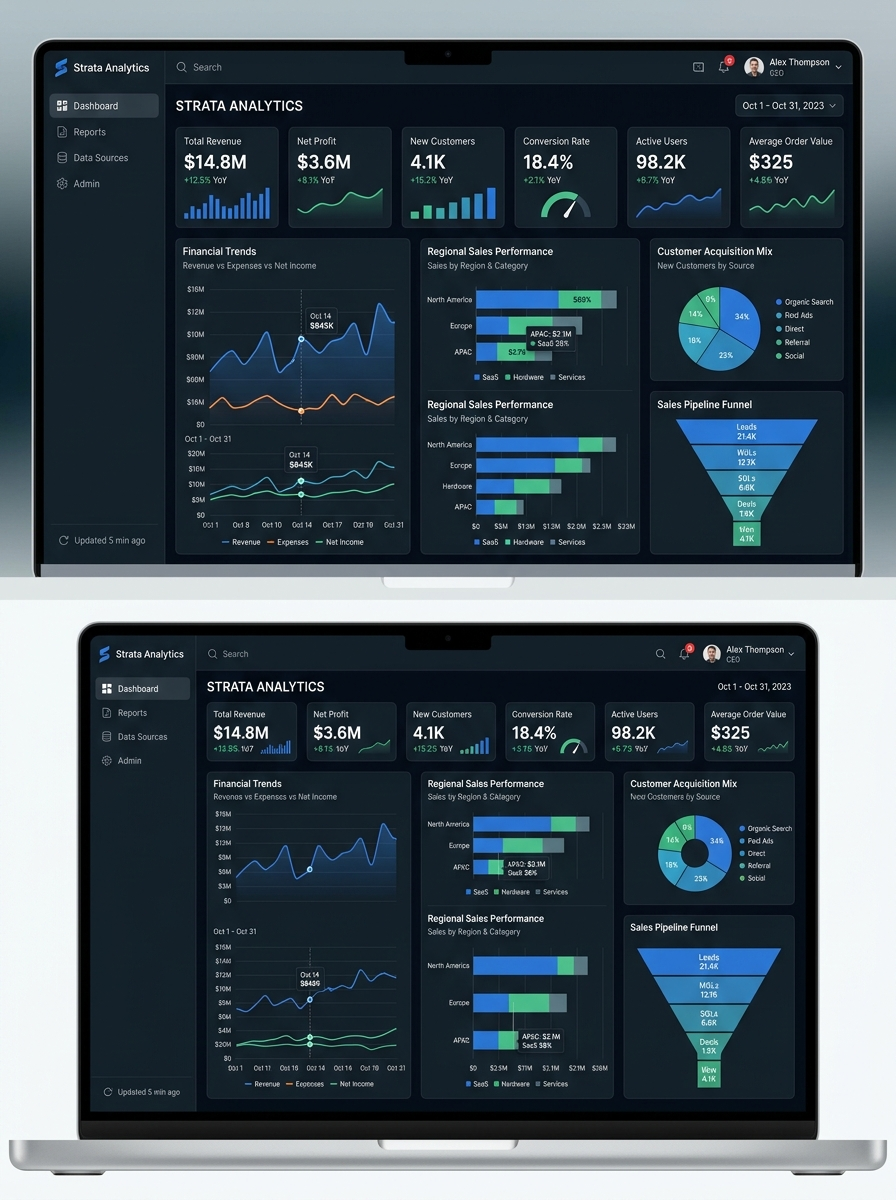
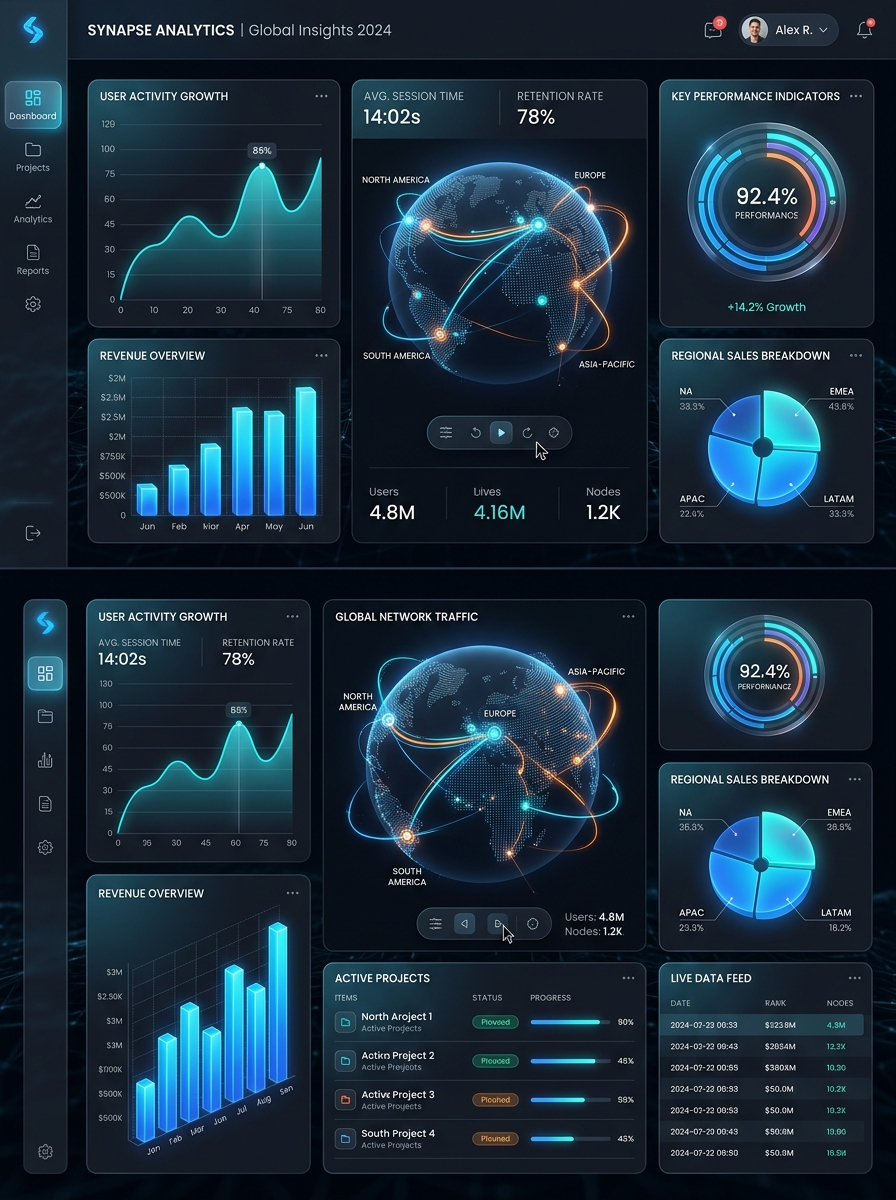
feat: implement animated Hero section with dynamic tech stack mockups

diff --git a/src/components/HeroMockups.jsx b/src/components/HeroMockups.jsx
@@ -1,0 +1,106 @@
+import React from 'react'
+
+export const SoftwareMockup = () => (
+  <div className="w-full h-full bg-slate-900 rounded-3xl overflow-hidden flex flex-col font-mono text-sm shadow-2xl border border-slate-700">
+    <div className="bg-slate-800 px-4 py-3 flex items-center gap-2 border-b border-slate-700">
+      <div className="flex gap-1.5"><div className="w-3 h-3 rounded-full bg-red-500"></div><div className="w-3 h-3 rounded-full bg-yellow-500"></div><div className="w-3 h-3 rounded-full bg-green-500"></div></div>
+      <div className="ml-4 text-slate-400 text-xs">app.tsx - KrGo Tech</div>
+    </div>
+    <div className="flex-1 flex overflow-hidden">
+      <div className="w-12 bg-slate-800/50 flex flex-col items-center py-4 gap-2 text-slate-500 border-r border-slate-700 select-none">
+         {[...Array(15)].map((_, i) => <div key={i}>{i+1}</div>)}
+      </div>
+      <div className="p-4 text-slate-300 overflow-hidden leading-relaxed text-xs sm:text-sm">
+        <div><span className="text-purple-400">import</span> React <span className="text-purple-400">from</span> <span className="text-green-400">'react'</span>;</div>
+        <br/>
+        <div><span className="text-blue-400">const</span> <span className="text-yellow-200">KrGoApp</span> = () =&gt; {'{'}</div>
+        <div className="ml-4"><span className="text-blue-400">const</span> analytics = <span className="text-yellow-200">useAnalytics</span>();</div>
+        <div className="ml-4"><span className="text-purple-400">return</span> (</div>
+        <div className="ml-8 text-cyan-400">&lt;div className="app-container"&gt;</div>
+        <div className="ml-12 text-slate-300">Building scalable software solutions...</div>
+        <div className="ml-8 text-cyan-400">&lt;/div&gt;</div>
+        <div className="ml-4">);</div>
+        <div>{'}'};</div>
+        <br/>
+        <div><span className="text-purple-400">export default</span> KrGoApp;</div>
+      </div>
+    </div>
+  </div>
+)
+
+export const AnalyticsMockup = () => (
+  <div className="w-full h-full bg-white dark:bg-slate-900 rounded-3xl overflow-hidden flex flex-col p-4 sm:p-6 shadow-2xl border border-gray-200 dark:border-slate-700">
+    <div className="flex justify-between items-center mb-6">
+      <div className="font-bold text-lg dark:text-white">Revenue Dashboard</div>
+      <div className="px-3 py-1 bg-blue-100 text-blue-600 rounded-full text-xs font-bold">+24.5%</div>
+    </div>
+    <div className="grid grid-cols-3 gap-2 sm:gap-4 mb-6">
+      {[124500, 8420, 98.2].map((val, i) => (
+        <div key={i} className="bg-slate-50 dark:bg-slate-800 p-3 sm:p-4 rounded-xl border border-gray-100 dark:border-slate-700 flex flex-col justify-center items-center text-center">
+          <div className="text-[10px] sm:text-xs text-slate-500 dark:text-slate-400 mb-1">Metric {i+1}</div>
+          <div className="text-sm sm:text-xl font-black dark:text-white">{val}</div>
+        </div>
+      ))}
+    </div>
+    <div className="flex-1 bg-slate-50 dark:bg-slate-800 rounded-xl border border-gray-100 dark:border-slate-700 p-4 flex items-end gap-1 sm:gap-2">
+       {[40, 70, 45, 90, 65, 100, 80, 55, 75, 60].map((h, i) => (
+         <div key={i} className="flex-1 bg-blue-500 rounded-t-sm transition-all duration-1000 shadow-sm" style={{ height: `${h}%` }}></div>
+       ))}
+    </div>
+  </div>
+)
+
+export const AIMockup = () => (
+  <div className="w-full h-full bg-slate-950 rounded-3xl overflow-hidden flex flex-col shadow-2xl border border-slate-800 relative">
+    <div className="bg-slate-900 p-4 border-b border-slate-800 font-bold text-white flex items-center gap-2">
+       <div className="w-2 h-2 rounded-full bg-green-500 animate-pulse"></div> AI Chat Assistant
+    </div>
+    <div className="flex-1 p-4 sm:p-6 flex flex-col gap-4 text-xs sm:text-sm overflow-hidden">
+      <div className="bg-slate-800 text-white p-3 sm:p-4 rounded-2xl rounded-tl-sm self-start max-w-[80%] border border-slate-700 shadow-lg">
+        Hello! I'm your AI assistant. How can I automate your workflow today?
+      </div>
+      <div className="bg-blue-600 text-white p-3 sm:p-4 rounded-2xl rounded-tr-sm self-end max-w-[80%] shadow-lg">
+        Can you analyze our recent deployment data and suggest improvements?
+      </div>
+      <div className="bg-slate-800 text-white p-3 sm:p-4 rounded-2xl rounded-tl-sm self-start max-w-[80%] border border-slate-700 shadow-lg">
+        <div className="flex gap-2 items-center text-blue-400 mb-2 font-medium">
+           <svg className="w-4 h-4 animate-spin" fill="none" viewBox="0 0 24 24"><circle className="opacity-25" cx="12" cy="12" r="10" stroke="currentColor" strokeWidth="4"></circle><path className="opacity-75" fill="currentColor" d="M4 12a8 8 0 018-8V0C5.373 0 0 5.373 0 12h4zm2 5.291A7.962 7.962 0 014 12H0c0 3.042 1.135 5.824 3 7.938l3-2.647z"></path></svg> Analyzing data...
+        </div>
+        <div className="h-1.5 w-32 bg-slate-700 rounded-full overflow-hidden">
+           <div className="h-full bg-blue-500 w-2/3"></div>
+        </div>
+      </div>
+    </div>
+    <div className="p-3 sm:p-4 bg-slate-900 border-t border-slate-800">
+       <div className="bg-slate-800 rounded-full px-4 py-2 sm:py-3 text-slate-400 text-xs sm:text-sm border border-slate-700">Type your prompt here...</div>
+    </div>
+  </div>
+)
+
+export const CloudMockup = () => (
+  <div className="w-full h-full bg-[#0a0f1c] rounded-3xl overflow-hidden flex flex-col p-4 sm:p-6 shadow-2xl border border-[#1e293b]">
+    <div className="flex justify-between items-center mb-6 text-white font-bold">
+      <div>Cluster Status</div>
+      <div className="text-emerald-400 text-xs sm:text-sm flex items-center gap-2"><div className="w-2 h-2 bg-emerald-400 rounded-full animate-pulse"></div> All Systems Operational</div>
+    </div>
+    <div className="grid grid-cols-2 gap-2 sm:gap-4 mb-6">
+       <div className="bg-[#111827] p-3 sm:p-4 rounded-xl border border-[#374151]">
+          <div className="text-slate-400 text-[10px] sm:text-xs mb-2">CPU Usage</div>
+          <div className="w-full h-1.5 bg-slate-800 rounded-full overflow-hidden"><div className="h-full bg-blue-500 w-[45%]"></div></div>
+          <div className="text-right text-[10px] sm:text-xs mt-1 text-white">45%</div>
+       </div>
+       <div className="bg-[#111827] p-3 sm:p-4 rounded-xl border border-[#374151]">
+          <div className="text-slate-400 text-[10px] sm:text-xs mb-2">Memory Usage</div>
+          <div className="w-full h-1.5 bg-slate-800 rounded-full overflow-hidden"><div className="h-full bg-purple-500 w-[72%]"></div></div>
+          <div className="text-right text-[10px] sm:text-xs mt-1 text-white">72%</div>
+       </div>
+    </div>
+    <div className="flex-1 bg-[#111827] rounded-xl border border-[#374151] p-4 relative overflow-hidden flex flex-col">
+       <div className="text-slate-400 text-xs mb-4 z-10">Network Traffic</div>
+       <svg className="w-full h-full absolute inset-0 pt-8" preserveAspectRatio="none" viewBox="0 0 100 100">
+          <path d="M0,100 L0,50 Q25,20 50,60 T100,30 L100,100 Z" fill="rgba(59,130,246,0.15)" />
+          <path d="M0,50 Q25,20 50,60 T100,30" fill="none" stroke="#3b82f6" strokeWidth="3" />
+       </svg>
+    </div>
+  </div>
+)

diff --git a/src/components/Hero.jsx b/src/components/Hero.jsx
@@ -1,12 +1,13 @@
 import React, { useState, useEffect } from 'react'
 import { Link } from 'react-router-dom'
 import TextSlider from './TextSlider'
+import { SoftwareMockup, AnalyticsMockup, AIMockup, CloudMockup } from './HeroMockups'
 
-const heroImages = [
-  { src: '/hero-slider/software_dev.jpg', alt: 'Software Development' },
-  { src: '/hero-slider/data_analytics.jpg', alt: 'Data Analytics' },
-  { src: '/hero-slider/ai_automation.jpg', alt: 'AI & ML' },
-  { src: '/hero-slider/cloud_native.jpg', alt: 'Cloud Native' }
+const heroMockups = [
+  { component: SoftwareMockup, alt: 'Software Development' },
+  { component: AnalyticsMockup, alt: 'Data Analytics' },
+  { component: AIMockup, alt: 'AI & ML' },
+  { component: CloudMockup, alt: 'Cloud Native' }
 ]
 
 export default function Hero() {
@@ -14,7 +15,7 @@ export default function Hero() {
 
   useEffect(() => {
     const interval = setInterval(() => {
-      setCurrentImgIndex((prev) => (prev + 1) % heroImages.length)
+      setCurrentImgIndex((prev) => (prev + 1) % heroMockups.length)
     }, 4000)
     return () => clearInterval(interval)
   }, [])
@@ -30,7 +31,7 @@ export default function Hero() {
 
       <div className="max-w-6xl mx-auto px-4 sm:px-6 grid md:grid-cols-12 gap-8 lg:gap-12 items-center relative z-10">
         {/* Text Content */}
-        <div className="md:col-span-7 flex flex-col text-center md:text-left">
+        <div className="md:col-span-6 flex flex-col text-center md:text-left">
           <div className="inline-flex max-w-[90%] mx-auto md:max-w-none md:mx-0 items-center justify-center gap-2 bg-blue-50/80 dark:bg-white/5 backdrop-blur-sm border border-blue-100 dark:border-white/10 text-primary dark:text-white text-xs font-semibold px-4 py-2 rounded-full mb-8 mt-4 md:mt-0 shadow-sm transition-colors duration-300">
             <span className="relative flex h-2.5 w-2.5 mr-1">
               <span className="animate-ping absolute inline-flex h-full w-full rounded-full bg-primary opacity-75"></span>
@@ -67,20 +68,23 @@ export default function Hero() {
         </div>
 
         {/* Image / Graphic Area */}
-        <div className="hidden md:flex md:col-span-5 justify-center relative">
-          <div className="relative w-full max-w-lg aspect-[4/5] rounded-3xl z-10">
-            <div className="absolute inset-0 bg-gradient-to-tr from-primary/20 to-blue-300/20 rounded-3xl transform rotate-6 scale-105 transition-transform duration-700 ease-in-out hover:rotate-2 hover:scale-100 z-10"></div>
+        <div className="hidden md:flex md:col-span-6 justify-center relative items-center">
+          <div className="relative w-full max-w-2xl aspect-video rounded-3xl z-10 shadow-2xl">
+            <div className="absolute inset-0 bg-gradient-to-tr from-primary/20 to-blue-300/20 rounded-3xl transform rotate-3 scale-105 transition-transform duration-700 ease-in-out hover:rotate-1 hover:scale-100 z-10 pointer-events-none"></div>
             
-            {heroImages.map((img, index) => (
-              <img
-                key={index}
-                src={img.src}
-                alt={img.alt}
-                className={`absolute inset-0 w-full h-full object-cover rounded-3xl shadow-2xl transition-opacity duration-1000 ease-in-out ${
-                  index === currentImgIndex ? 'opacity-100' : 'opacity-0'
-                }`}
-              />
-            ))}
+            {heroMockups.map((MockupObj, index) => {
+              const MockupComponent = MockupObj.component;
+              return (
+                <div
+                  key={index}
+                  className={`absolute inset-0 w-full h-full transition-opacity duration-1000 ease-in-out ${
+                    index === currentImgIndex ? 'opacity-100 z-0' : 'opacity-0 -z-10'
+                  }`}
+                >
+                  <MockupComponent />
+                </div>
+              );
+            })}
 
             {/* Floating Element - Example Data Viz */}
             <div className="absolute -bottom-8 -left-8 bg-white dark:bg-slate-900 p-4 rounded-2xl shadow-xl dark:shadow-2xl dark:shadow-primary/20 border border-gray-100 dark:border-white/10 z-20 animate-bounce transition-colors duration-300" style={{ animationDuration: '3s' }}>
